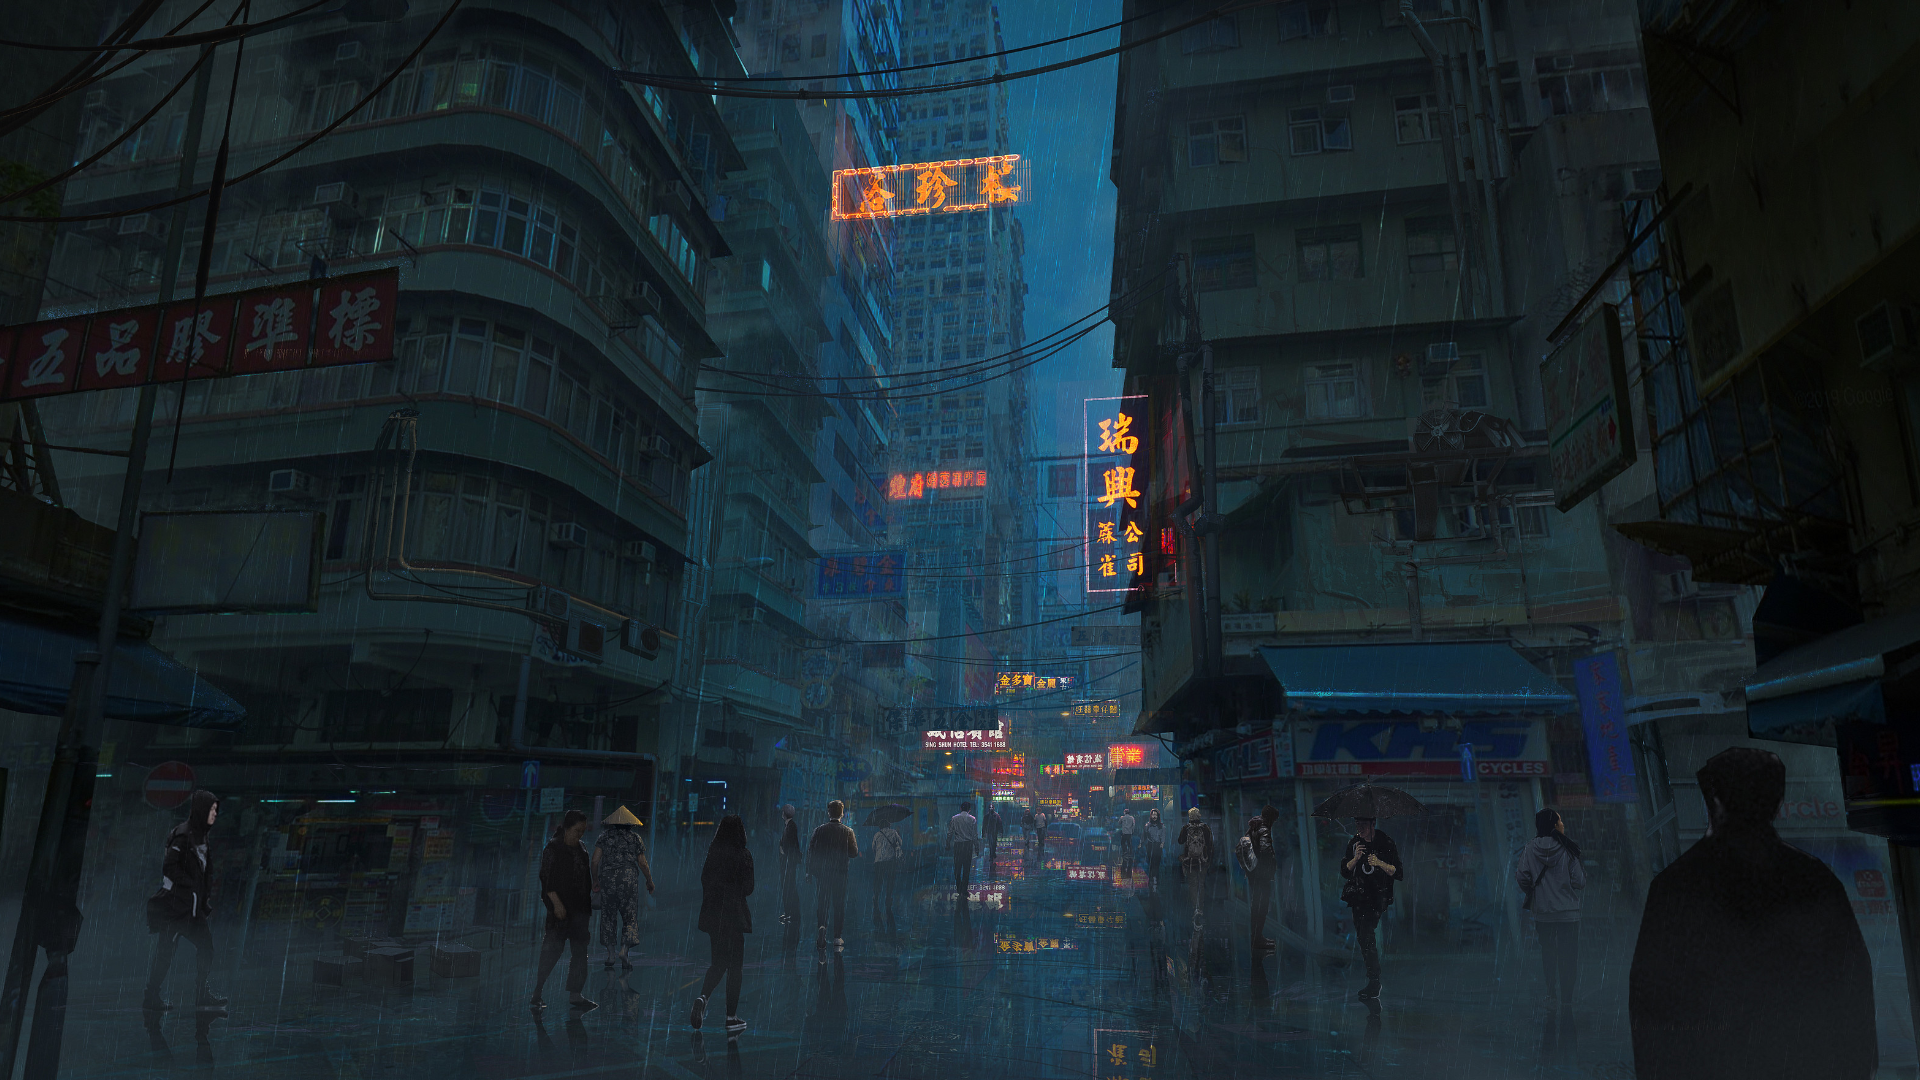
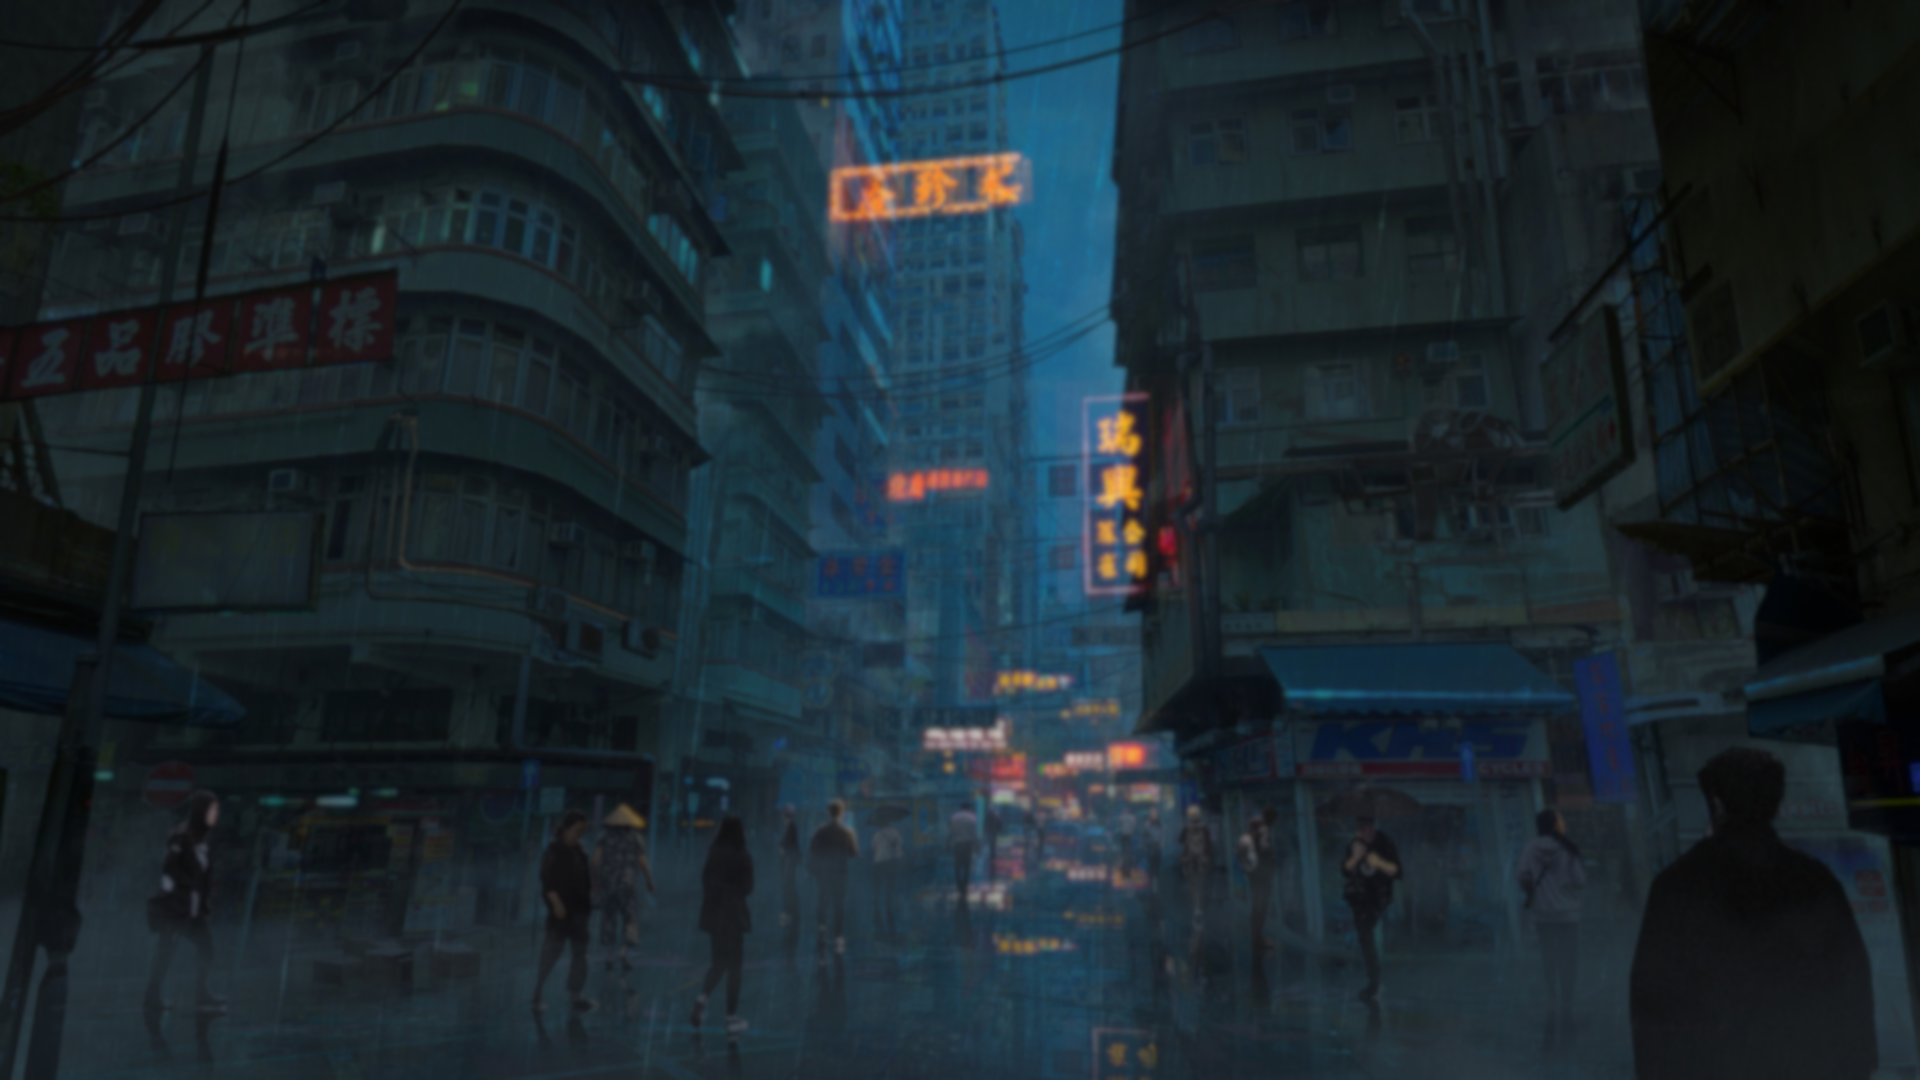
Added a proper bio Added a picture Changed background

diff --git a/styles.css b/styles.css
@@ -10,9 +10,9 @@ mark.green
      background: none;
 }
 
-#octocat {
+#profile_picture {
   display: block;
-  width:450px;
+  width:200px;
   margin: 50px auto;
 }
 
@@ -37,7 +37,7 @@ a:active {
   background-color: transparent;
   text-decoration: underline;
 }
-#buttonSwitch
+.button1
 {
      background: none;
      border: none;
@@ -46,8 +46,37 @@ a:active {
      margin: 30px auto;
      font: 50px Monaco,"Courier New","DejaVu Sans Mono","Bitstream Vera Sans Mono",monospace;
      color: #00fe29;
-
 }
+.button1:hover
+{
+     background: none;
+     border: none;
+     display: inline-block;
+     cursor: pointer;
+     margin: 30px auto;
+     font: 50px Monaco,"Courier New","DejaVu Sans Mono","Bitstream Vera Sans Mono",monospace;
+     color: #00fe29;
+     font-weight: bold;
+}
+
+.button2
+{
+     display: block;
+     width: 700px ;
+     margin: 50px auto;
+     font: 25px Monaco,"Source Code Pro",monospace;
+     color: #00ff44;
+     font-weight: bold;
+}
+.button2:hover
+{
+     display: block;
+     width: 700px ;
+     margin: 50px auto;
+     font: 25px Monaco,"Source Code Pro",monospace;
+     color: #00ff44;
+}
+
 #mainPicture {
      background-image: url(images/mountain_light.png);
      background-size: cover;
@@ -61,9 +90,9 @@ textBackground {
      display: block;
      background-color: #393340;
      height: 1000px auto;
-     background-image: url(images/cyber_city_dark.png);
+     background-image: url(images/green_dark.png);
      background-size: cover;
-     background-blend-mode:darken;
+     //background-blend-mode:darken;
      background-attachment: fixed;
      backface-visibility: visible;
 }
@@ -92,14 +121,15 @@ header_font {
   color: white;
 }
 
-p2 {
+mainFontGreen {
   display: block;
   width: 700px ;
   margin: 50px auto;
   font: 25px Monaco,"Source Code Pro",monospace;
   color: #00ff44;
 }
-p3 {
+
+mainFontWhite {
   display: block;
   width: 700px;
   margin: 50px auto;
@@ -121,9 +151,9 @@ p3 {
           color:#00ff44;
           background: none;
      }
-     #octocat {
+     #profile_picture {
        display: block;
-       width:450px;
+       width:150px;
        margin: 50px auto;
      }
 
@@ -147,7 +177,7 @@ p3 {
        background-color: transparent;
        text-decoration: underline;
      }
-     #buttonSwitch
+     .button1
      {
           background: none;
           border: none;
@@ -156,7 +186,17 @@ p3 {
           margin: 30px auto;
           font: 30px Monaco,"Courier New","DejaVu Sans Mono","Bitstream Vera Sans Mono",monospace;
           color: #00fe29;
-
+     }
+     .button1:hover
+     {
+          background: none;
+          border: none;
+          display: inline-block;
+          cursor: pointer;
+          margin: 30px auto;
+          font: 30px Monaco,"Courier New","DejaVu Sans Mono","Bitstream Vera Sans Mono",monospace;
+          color: #00fe29;
+          font-weight: bold;
      }
      #mainPicture {
           background-image: url(images/mountain_light.png);
@@ -173,7 +213,7 @@ p3 {
           display: block;
           background-color: #393340;
           height: 1000px auto;
-          background-image: url(images/cyber_city_dark.png);
+          background-image: url(images/green_dark.png);
           background-size: cover;
           background-position: center;
           background-blend-mode:darken;
@@ -205,14 +245,14 @@ p3 {
        font: 30px Monaco,"Courier New","DejaVu Sans Mono","Bitstream Vera Sans Mono",monospace;
        color: white;
      }
-     p2 {
+     mainFontGreen {
        display: block;
        width: 400px;
        margin: 30px auto;
        font: 25px Monaco,"Source Code Pro",monospace;
        color: #00ff44;
      }
-     p3 {
+     mainFontWhite {
        display: block;
        width: 400px;
        margin: 16px auto;

diff --git a/index.html b/index.html
@@ -22,11 +22,9 @@
 
 <body>
 <div id="mainPicture">
-
 <px50> </px50>
-<!--<img src="https://octodex.github.com/images/NUX_Octodex.gif" id="octocat" alt=""/> -->
 
-<header_font> Hello World! I’m <mark class="green"><button id="buttonSwitch" value="" onclick="changeDivImage()">omniknight0101</button></mark>. This is my website! </header_font>
+<header_font> Hello World! I’m <mark class="green"><button  class="button1"  value="" onclick="changeDivImage()" >omniknight0101</button></mark>. This is my website! </header_font>
 <px50> </px50>
 
 </div>
@@ -34,33 +32,34 @@
 <px50> </px50>
 <headerBackground>
      <px50> </px50>
-     <p2>./About_Me</p2>
+     <mainFontGreen>./About_Me</mainFontGreen>
      <px50> </px50>
 </headerBackground>
 
 <textBackground>
      <px50> </px50>
-     <p3>My name is Vadym Kharchenko. I am a computer science student. This info is just for you to glaze at...
-     </p3>
-     <p3>My main programming languages are:
+     <mainFontWhite>My name is Vadym Kharchenko. I am originally from Ukraine. My family moved to the USA in 2014. I love the precision and certainty of Mathematics and the originality and expression of ART. I started learning Computer Science when I went to college. I then got my AA in Computer Science and transferred to a state university. I still find my field extremely interesting and addicting. I valued the most when I have to work on a problem for multiple hours and get my brains fried out; and I am lucky enough to have it still.
+     </mainFontWhite>
+     <img src="images/profile_picture.png" id="profile_picture" alt=""/>
+     <mainFontWhite>My main programming languages are:
      <br>&nbsp;&nbsp;&nbsp;C++<br>&nbsp;&nbsp;&nbsp;C<br>&nbsp;&nbsp;&nbsp;Java<br>
-     &nbsp;&nbsp;&nbsp;ASM</p3>
-     <p3>On a side gig I do digital ART. </p3>
+     &nbsp;&nbsp;&nbsp;ASM</mainFontWhite>
+     <mainFontWhite>As for my side hobbies: I'm into music, painting landscapes, politics, and I am an extreme fan of Steam and Netflix. </mainFontWhite>
      <px50> </px50>
 </textBackground>
 
 <headerBackground>
      <px50> </px50>
-     <p2>./Contact_Informatin</p2>
+     <mainFontGreen>./Contact_Informatin</mainFontGreen>
      <px50> </px50>
 </headerBackground>
 
 <textBackground>
      <px50> </px50>
-     <p3><a href="mailto:vadym.kharchenko@yahoo.com">Email:</a> vadym.kharchenko@yahoo.com<br>
+     <mainFontWhite><a href="mailto:vadym.kharchenko@yahoo.com">Email:</a> vadym.kharchenko@yahoo.com<br>
      <a href="https://github.com/omniknight0101">GitHub:</a> github.com/omniknight0101
      <br><a href="https://discord.com/users/323590772060454923">Discord:</a> Happy_Robot#2612
-     </p3>
+     </mainFontWhite>
      <px50> </px50>
 </textBackground>
 
